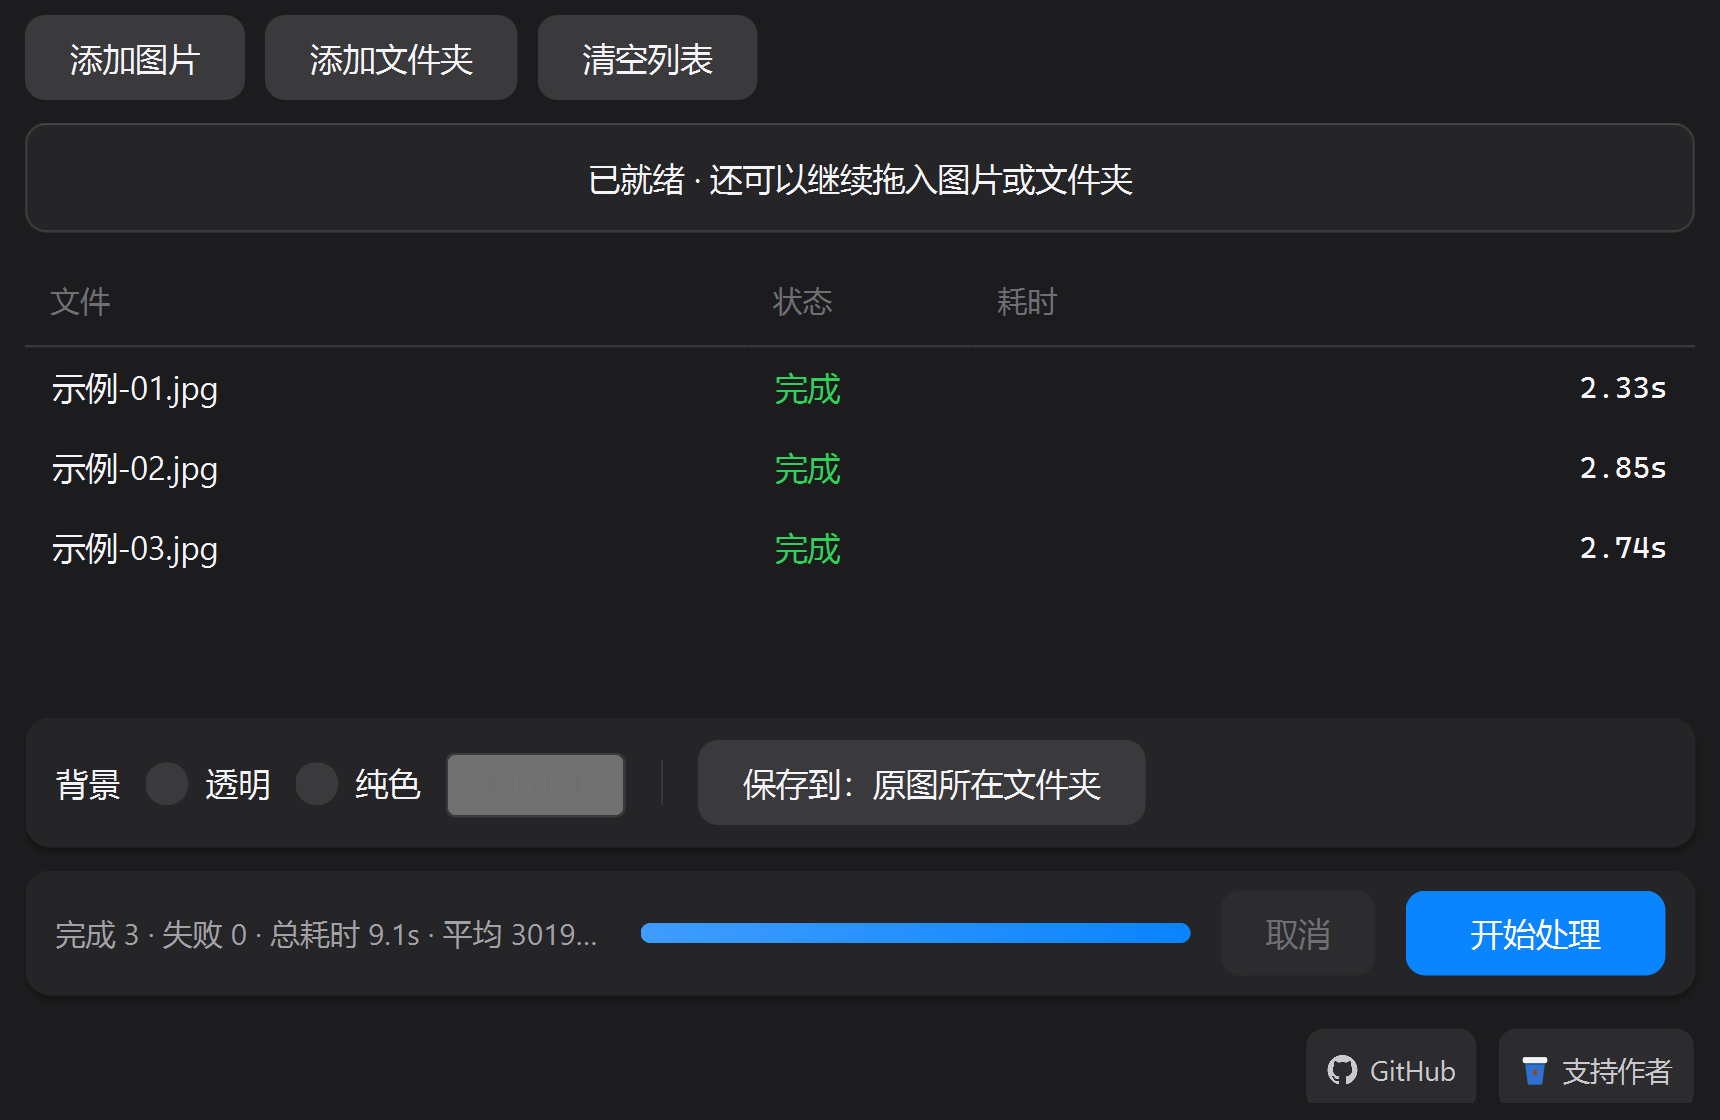
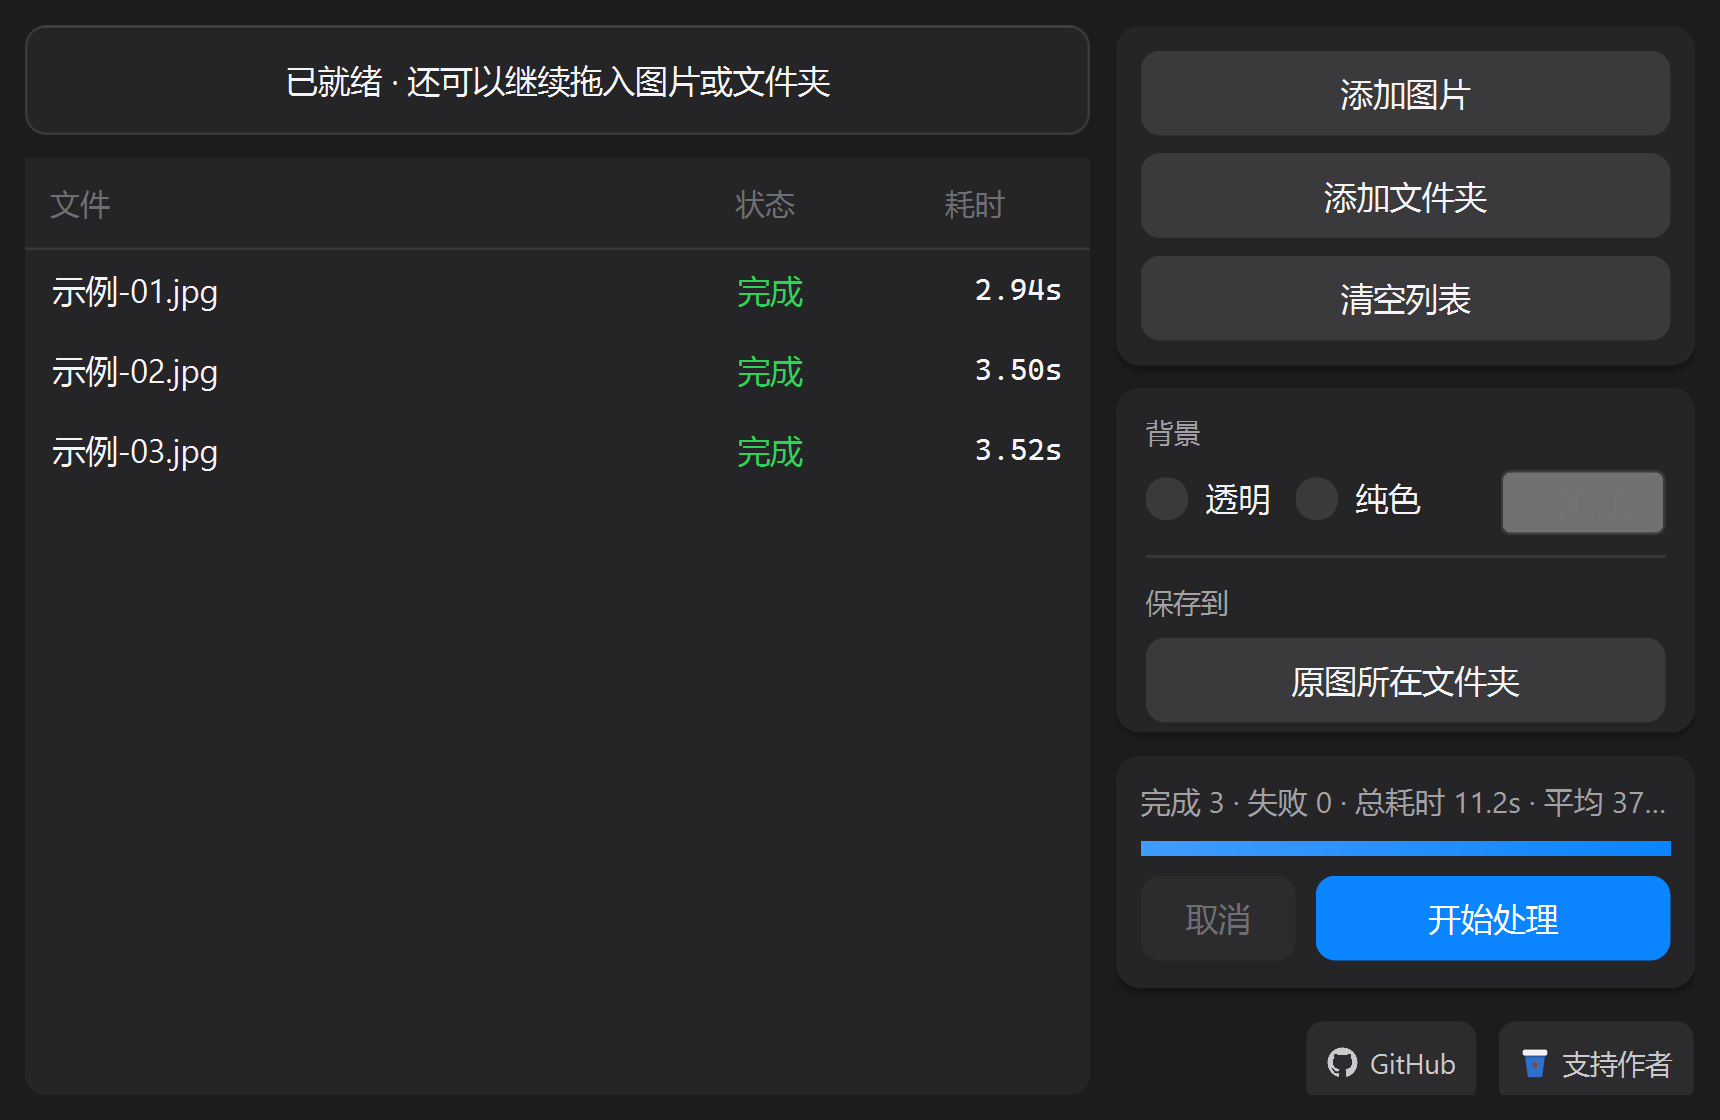
ui: 界面改左右分栏——左侧拖拽区/任务列表，右侧 232px 菜单区（工具/背景/保存到/状态进度动作）；设置面板改竖排；列表独立成卡片；v0.6.3

diff --git a/app/ui/main_window.py b/app/ui/main_window.py
@@ -5,10 +5,14 @@
 所以这里也没有筛选器、没有重跑按钮：失败的项在列表里标红，直接再点一次「开始处理」
 就会重新处理（规划阶段会跳过已成功生成的输出）。
 
-布局自上而下：工具条 → [大拖拽区 ⇄ 任务列表] → 设置面板 → 动作行（状态/进度/取消/开始处理）
-→ 底部链接条。没有菜单栏、也没有工具条右侧的「设置」菜单：界面入口只有工具条的
-添加图片 / 添加文件夹 / 清空列表三个按钮（模型管理走 Ctrl+M，或「开始处理」时的兜底提示）。
-列表为空时 44px 提示条隐藏，整块内容区由 DropArea 接管。
+布局左右分栏（v0.6.3 起）：
+
+- **左**：44px 拖拽提示条 + [大拖拽区 ⇄ 任务列表] —— 放图、看进度都在这一侧
+- **右**：232px 定宽菜单区，自上而下是 添加图片 / 添加文件夹 / 清空列表 →
+  背景（透明 / 纯色 + 色块）/ 保存到 → 状态 + 进度 + 取消·开始处理 → 右下角两个入口
+
+没有菜单栏，也没有「设置」菜单：模型管理走 Ctrl+M，或「开始处理」时的兜底提示。
+列表为空时提示条隐藏，整块左侧由 DropArea 接管。
 """
 
 from __future__ import annotations
@@ -46,6 +50,7 @@ from PySide6.QtWidgets import (
     QMessageBox,
     QProgressBar,
     QPushButton,
+    QSizePolicy,
     QStackedWidget,
     QTreeWidget,
     QTreeWidgetItem,
@@ -72,7 +77,8 @@ REPLAN_DELAY_MS = 200
 TITLE = "PixTrace · 去背景"
 ROW_HEIGHT = 32  # 苹果深色的列表行更松（原 30）
 DEFAULT_SIZE = (860, 560)  # 开窗尺寸
-MIN_SIZE = (860, 560)  # 下限，再小设置行会挤到换行
+MIN_SIZE = (860, 560)  # 下限，再小右侧菜单区会挤到换行
+SIDEBAR_W = 232  # 右侧菜单区定宽：跟着内容变会让人每次开窗重新找按钮
 GEOMETRY_KEY = "window/geometry2"  # 尾号跟默认尺寸策略走，改尺寸就 +1
 LEGACY_GEOMETRY_KEY = "window/geometry"
 GITHUB_URL = "https://github.com/gityongzhong/PixTrace"
@@ -351,31 +357,19 @@ class MainWindow(QMainWindow):
         central.setObjectName("surface")
         central.setAttribute(Qt.WA_StyledBackground, True)
         self.setCentralWidget(central)
-        wrap = QVBoxLayout(central)
-        wrap.setContentsMargins(10, 0, 10, 7)
-        wrap.setSpacing(9)
 
-        wrap.addWidget(self._build_toolbar())
+        body = QHBoxLayout(central)
+        body.setContentsMargins(10, 10, 10, 10)
+        body.setSpacing(10)
+
+        # ---------------- 左：拖拽条 +（空状态拖拽区 ⇄ 任务列表）
+        left = QVBoxLayout()
+        left.setSpacing(9)
 
         self.dropbar = DropBar()
-        wrap.addWidget(self.dropbar)
+        left.addWidget(self.dropbar)
 
-        self.tree = QTreeWidget()
-        self.tree.setHeaderLabels(list(COLUMNS))
-        self.tree.setRootIsDecorated(False)
-        self.tree.setUniformRowHeights(True)
-        # 交替行底色与列表底只差几个灰阶，看着只是脏，改用悬停高亮区分
-        self.tree.setAlternatingRowColors(False)
-        self.tree.setSelectionMode(QAbstractItemView.ExtendedSelection)
-        self.tree.setSelectionBehavior(QAbstractItemView.SelectRows)
-        self.tree.setEditTriggers(QAbstractItemView.NoEditTriggers)
-        self.tree.setVerticalScrollMode(QAbstractItemView.ScrollPerPixel)
-        header = self.tree.header()
-        header.setSectionResizeMode(0, QHeaderView.Stretch)
-        header.setSectionResizeMode(1, QHeaderView.Fixed)
-        header.setSectionResizeMode(2, QHeaderView.Fixed)
-        self.tree.setColumnWidth(1, 90)
-        self.tree.setColumnWidth(2, 76)
+        self.tree = self._build_tree()
 
         # 列表为空时整块内容区就是拖拽区，有输入后换成任务列表
         self.drop_area = DropArea()
@@ -383,20 +377,77 @@ class MainWindow(QMainWindow):
         self.center_stack = QStackedWidget()
         self.center_stack.addWidget(self.drop_area)
         self.center_stack.addWidget(self.tree)
-        wrap.addWidget(self.center_stack, 1)
+        left.addWidget(self.center_stack, 1)
+
+        body.addLayout(left, 1)
+
+        # ---------------- 右：菜单区（工具 / 背景 / 保存到 / 动作）
+        body.addWidget(self._build_sidebar())
+
+        self._build_actions()
+
+    def _build_tree(self) -> QTreeWidget:
+        tree = QTreeWidget()
+        tree.setHeaderLabels(list(COLUMNS))
+        tree.setRootIsDecorated(False)
+        tree.setUniformRowHeights(True)
+        # 交替行底色与列表底只差几个灰阶，看着只是脏，改用悬停高亮区分
+        tree.setAlternatingRowColors(False)
+        tree.setSelectionMode(QAbstractItemView.ExtendedSelection)
+        tree.setSelectionBehavior(QAbstractItemView.SelectRows)
+        tree.setEditTriggers(QAbstractItemView.NoEditTriggers)
+        tree.setVerticalScrollMode(QAbstractItemView.ScrollPerPixel)
+        header = tree.header()
+        # 默认最后一列会自己撑满，右侧菜单区一上，「耗时」就会拉出去一大片空白
+        header.setStretchLastSection(False)
+        header.setSectionResizeMode(0, QHeaderView.Stretch)
+        header.setSectionResizeMode(1, QHeaderView.Fixed)
+        header.setSectionResizeMode(2, QHeaderView.Fixed)
+        tree.setColumnWidth(1, 84)
+        tree.setColumnWidth(2, 68)
+        return tree
+
+    def _build_sidebar(self) -> QWidget:
+        """右侧菜单区：工具按钮 + 背景 + 保存到 + 状态/进度/动作 + 两个入口。
+
+        整列定宽（SIDEBAR_W）：宽度跟着内容变会让人每次开窗都在重新找按钮。
+        竖向顺序即操作顺序——先加图，再选背景和保存位置，最后点开始。
+        """
+        side = QWidget()
+        side.setFixedWidth(SIDEBAR_W)
+        column = QVBoxLayout(side)
+        column.setContentsMargins(0, 0, 0, 0)
+        column.setSpacing(9)
+
+        # 工具：添加图片 / 添加文件夹 / 清空列表
+        tools = QFrame()
+        tools.setProperty("role", "panel")
+        effects.add_card_shadow(tools)
+        tool_box = QVBoxLayout(tools)
+        tool_box.setContentsMargins(10, 10, 10, 10)
+        tool_box.setSpacing(7)
+        self.toolbar_add_files = QPushButton("添加图片")
+        self.toolbar_add_folder = QPushButton("添加文件夹")
+        self.toolbar_clear = QPushButton("清空列表")
+        for button in (
+            self.toolbar_add_files,
+            self.toolbar_add_folder,
+            self.toolbar_clear,
+        ):
+            tool_box.addWidget(button)
+        column.addWidget(tools)
 
         self.settings_panel = SettingsPanel()
         effects.add_card_shadow(self.settings_panel)
-        wrap.addWidget(self.settings_panel)
+        column.addWidget(self.settings_panel)
 
-        # 状态 + 进度 + 动作单独占一排：挤在设置行尾会把「保存到」压得没地方，
-        # 参数与动作分开也更符合阅读顺序（先选参数，再动手）
+        # 状态 + 进度 + 动作：竖排，宽度只有一列，所以进度条铺满、按钮同行
         self.action_row = QFrame()
         self.action_row.setProperty("role", "panel")
         effects.add_card_shadow(self.action_row)
-        action_row = QHBoxLayout(self.action_row)
-        action_row.setContentsMargins(12, 8, 12, 8)
-        action_row.setSpacing(12)
+        action_box = QVBoxLayout(self.action_row)
+        action_box.setContentsMargins(10, 10, 10, 11)
+        action_box.setSpacing(8)
 
         self.status_label = QLabel("就绪")
         self.status_label.setProperty("role", "hint")
@@ -408,7 +459,8 @@ class MainWindow(QMainWindow):
         self.progress.setRange(0, 100)
         self.progress.setValue(0)
         self.progress.setTextVisible(False)
-        self.progress.setFixedSize(QSize(220, 8))
+        self.progress.setFixedHeight(6)
+        self.progress.setSizePolicy(QSizePolicy.Expanding, QSizePolicy.Fixed)
         # 进度值滚动过去，而不是一格一格地蹦
         self._progress_roll = anim.ValueRoller(self.progress, "value", self)
 
@@ -416,36 +468,23 @@ class MainWindow(QMainWindow):
         self.cancel_button.setEnabled(False)
         self.start_button = QPushButton("开始处理")
         self.start_button.setProperty("role", "primary")
-        self.start_button.setMinimumWidth(104)
 
-        # 状态文字吃掉中间全部弹性宽度（超长自动省略），进度条贴着动作按钮，
-        # 「看着跑完 → 立刻再跑一轮」的视线动线是连续的
-        action_row.addWidget(self.status_label, 1)
-        action_row.addWidget(self.progress, 0, Qt.AlignVCenter)
-        action_row.addWidget(self.cancel_button)
-        action_row.addWidget(self.start_button)
-        wrap.addWidget(self.action_row)
+        button_row = QHBoxLayout()
+        button_row.setSpacing(8)
+        button_row.addWidget(self.cancel_button, 0)
+        button_row.addWidget(self.start_button, 1)
 
-        # 右下角链接行：无底色无投影，紧贴底部
+        action_box.addWidget(self.status_label)
+        action_box.addWidget(self.progress)
+        action_box.addLayout(button_row)
+        column.addWidget(self.action_row)
+
+        column.addStretch(1)
+
+        # 两个入口贴在列底：位置仍是窗口右下角
         self.action_bar = FooterBar()
-        wrap.addWidget(self.action_bar)
-
-        self._build_actions()
-
-    def _build_toolbar(self) -> QWidget:
-        bar = QWidget()
-        bar.setObjectName("toolbar")
-        row = QHBoxLayout(bar)
-        row.setContentsMargins(0, 6, 0, 0)
-        row.setSpacing(8)
-
-        self.toolbar_add_files = QPushButton("添加图片")
-        self.toolbar_add_folder = QPushButton("添加文件夹")
-        self.toolbar_clear = QPushButton("清空列表")
-        for button in (self.toolbar_add_files, self.toolbar_add_folder, self.toolbar_clear):
-            row.addWidget(button)
-        row.addStretch(1)
-        return bar
+        column.addWidget(self.action_bar)
+        return side
 
     def _build_actions(self) -> None:
         """动作对象挂在窗口上：既没有菜单栏，也没有「设置」菜单。

diff --git a/app/ui/settings_panel.py b/app/ui/settings_panel.py
@@ -1,5 +1,9 @@
 """设置面板：界面上唯一的参数区——背景（透明 / 纯色）+ 保存位置。
 
+v0.6.3 起界面改成左右分栏，本面板落在右侧 232px 的菜单区里，所以是**竖排**：
+小标题 + 控件各占一行。横排（背景 | 透明 | 纯色 | 色块 | 保存到）只在它横跨
+整个窗口的年代成立，收进一列后会把每个控件挤成半个字。
+
 产品定位就是两个动作——去掉背景、换成纯色背景，所以模型档位、输出格式、
 并发数、羽化半径这些工程参数一律不出现在界面上，而是固定策略：
 
@@ -10,8 +14,8 @@
 
 这些策略都写在 build_options() 里，想改只需改这一处。
 
-本面板只管参数：状态文字、进度条与执行按钮在主窗口的独立动作行里
-（挤在这一行行尾会把「保存到」压得没地方，也不符合「先选参数再动手」的顺序）。
+本面板只管参数：状态文字、进度条与执行按钮在菜单区下方单独一块动作卡片里
+（参数与动作分开，符合「先选参数再动手」的顺序）。
 """
 
 from __future__ import annotations
@@ -60,43 +64,61 @@ class SettingsPanel(QFrame):
 
     # ------------------------------------------------------------ 构建
     def _build(self) -> None:
-        row = QHBoxLayout(self)
-        row.setContentsMargins(12, 9, 12, 9)
-        row.setSpacing(10)
+        """竖排：小标题 + 控件，宽度只有右侧菜单区那么一列。
 
-        label = QLabel("背景")
-        row.addWidget(label)
+        以前是横排的一整行（背景 | 透明 | 纯色 | 色块 | 保存到），那是因为
+        它横跨整个窗口；现在归到右侧菜单区，横排会把每项都挤成半个字。
+        """
+        column = QVBoxLayout(self)
+        column.setContentsMargins(12, 10, 12, 12)
+        column.setSpacing(7)
+
+        column.addWidget(self._section("背景"))
+
+        bg_row = QHBoxLayout()
+        bg_row.setSpacing(10)
 
         self.bg_transparent = QRadioButton("透明")
         self.bg_transparent.setToolTip("去掉背景，输出带透明通道的 PNG")
-        row.addWidget(self.bg_transparent)
+        bg_row.addWidget(self.bg_transparent)
 
         self.bg_color = QRadioButton("纯色")
         self.bg_color.setToolTip("去掉背景后填充为指定颜色")
-        row.addWidget(self.bg_color)
+        bg_row.addWidget(self.bg_color)
+
+        bg_row.addStretch(1)
 
         self.color_button = QPushButton()
         self.color_button.setProperty("role", "swatch")
-        self.color_button.setFixedSize(72, 24)
+        self.color_button.setFixedSize(66, 22)
         self.color_button.setToolTip("点击选择背景颜色")
-        row.addWidget(self.color_button)
+        bg_row.addWidget(self.color_button)
+        column.addLayout(bg_row)
 
-        row.addSpacing(4)
-        row.addWidget(self._separator())
-        row.addSpacing(4)
+        column.addSpacing(3)
+        column.addWidget(self._separator())
+        column.addSpacing(3)
+
+        column.addWidget(self._section("保存到"))
 
         self.dest_button = QPushButton()
         self.dest_button.setCursor(Qt.PointingHandCursor)
         self.dest_button.setToolTip("结果保存到哪里")
-        row.addWidget(self.dest_button)
+        self.dest_button.setMinimumHeight(26)
+        column.addWidget(self.dest_button)
 
-        row.addStretch(1)
         self._apply_color_style()
+
+    @staticmethod
+    def _section(text: str) -> QLabel:
+        label = QLabel(text)
+        label.setProperty("role", "section")
+        return label
 
     def _separator(self) -> QWidget:
         line = QFrame()
         line.setProperty("role", "separator")
-        line.setFixedSize(1, 18)
+        line.setFixedHeight(1)
         return line
 
     # ------------------------------------------------------------ 交互
@@ -142,13 +164,14 @@ class SettingsPanel(QFrame):
             self.changed.emit()
 
     def _refresh_dest(self) -> None:
-        self.dest_button.setText(f"保存到：{self._dest_text()}")
+        self.dest_button.setText(self._dest_text())
+        self.dest_button.setToolTip(f"保存到：{self._dest_text(full=True)}")
 
-    def _dest_text(self) -> str:
+    def _dest_text(self, full: bool = False) -> str:
         if self._dest_mode == DEST_CUSTOM and self._custom_dir is not None:
             text = str(self._custom_dir)
-            if len(text) > 30:
-                text = "…" + text[-29:]
+            if not full and len(text) > 26:
+                text = "…" + text[-25:]
             return text
         return "原图所在文件夹"
 

diff --git a/app/ui/style.py b/app/ui/style.py
@@ -29,7 +29,7 @@ MONO_FONT = '"Cascadia Mono", "Consolas", monospace'
 BG = "#1c1c1e"          # 窗体底：中性深灰（苹果深色的 windowBackground）
 BG_PANEL = "#252527"    # 面板 / 卡片：比底色亮一档，靠明度差浮起
 BG_CARD = "#252527"
-BG_WELL = "#1c1c1e"     # 凹槽：列表 / 表头与窗体同色（苹果列表不另铺底）
+BG_WELL = "#252527"     # 列表 / 表头：v0.6.3 起左侧列表独立成一块卡片，与面板同色
 BG_DROP = "#242426"     # 空状态拖拽区：比窗体亮一点，像一块可投放的板
 BG_DROP_ACTIVE = "#102c4a"  # 拖拽悬停：系统蓝的深色底
 BG_INPUT = "#3a3a3c"    # 控件填充：苹果的灰色胶囊按钮
@@ -150,6 +150,11 @@ QLabel[role="hint"] {{
 QLabel[role="faint"] {{
     font-size: 11px;
     color: {TEXT_FAINT};
+}}
+/* 右侧菜单区的小标题（背景 / 保存到）：比正文灰一档，起分区作用不抢注意力 */
+QLabel[role="section"] {{
+    font-size: 11px;
+    color: {TEXT_DIM};
 }}
 QLabel[role="droptitle"] {{
     font-size: 16px;
